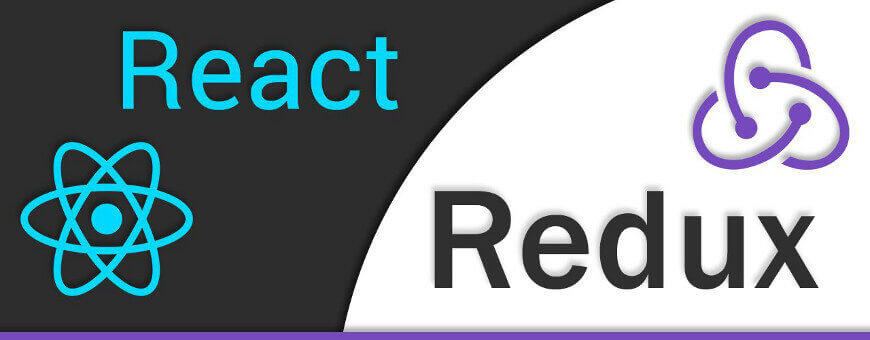
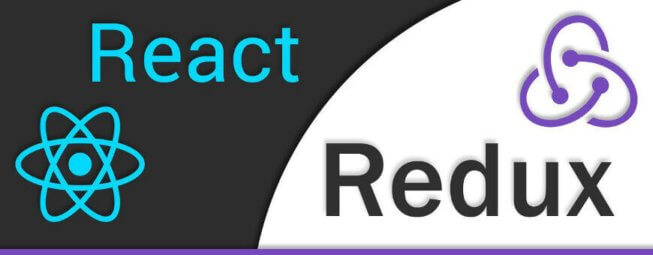
reducing images and separating paragraphs

diff --git a/_posts/2017-04-02-getting-started-react-redux.md b/_posts/2017-04-02-getting-started-react-redux.md
@@ -11,12 +11,14 @@ categories:
   - JavaScript
 tags: []
 author: Carlos Blé
-small_image: redux_small.png
+small_image: redux.svg
+written_in: english
 ---
 
 I started learning React and Redux about two months ago. Following the recommendation of 
 my colleagues Dani, Miguel & Ronny, I went to Pluralsight to study from the great training 
 courses carefully crafted by [Cory House](https://twitter.com/housecor). 
+
 We first watched the introduction to [React and Flux](https://app.pluralsight.com/library/courses/react-flux-building-applications/table-of-contents). 
 I did not practice with the exercises proposed, just watched the episodes at the 
 maximum speed I could. It's nice to be able to configure the player's speed to 1.7x or 2x. 
@@ -24,25 +26,26 @@ maximum speed I could. It's nice to be able to configure the player's speed to 1
 <img src="/assets/react-redux.jpg" alt="Redux" />
 
 Once I understood React and the Flux pattern I went to the next course on [React and Redux](https://app.pluralsight.com/library/courses/react-redux-react-router-es6/table-of-contents). 
+
 This time I downloaded the repository that Cory's got for this course, called 
 [Pluralsight-redux-starter](https://github.com/coryhouse/pluralsight-redux-starter) 
 and played with the examples along the way. I appreciated specially the episodes in 
 testing since I am a test infected developer and I feel the need for tests as soon as
 I get started with the development. 
-Cory has a terrific code repository called [React-Slingshot](https://github.com/coryhouse/react-slingshot) that served us to boot our first Redux project. 
- It's similar to the Pluralsight Starter but production ready, with an incredibly 
- powerful Webpack setup including all the tests harness, hot reloading, Babel...
- The repository includes cutting-edge libraries and works perfectly on Linux, Windows
- and Mac. Ready to work with ES6 which is the JavaScript flavour we've been using in
- the last two years. It saved us a lot of time, I am very grateful Cory!
- In the course there is an example where Cory tests a component through the Redux Provider. This one example has been very useful for us because we like to do 
- Outside-in TDD and testing from the Provider allows us to write integration tests that
-  cover the factory and _Redux's connect_ with our implementations of _mapStateToProps_ and
-  _mapStateToActions_.
-  In the following blog post I'll explain our Outside-in TDD strategy together with the
-  dependency injection which are building blocks that are not covered by the courses.
+
+Cory has a terrific code repository called [React-Slingshot](https://github.com/coryhouse/react-slingshot) that served us to boot our first Redux project. It's similar to the Pluralsight Starter but production ready, with an incredibly 
+powerful Webpack setup including all the tests harness, hot reloading, Babel...
+The repository includes cutting-edge libraries and works perfectly on Linux, Windows
+and Mac. Ready to work with ES6 which is the JavaScript flavour we've been using in
+the last two years. It saved us a lot of time, I am very grateful Cory!
+ 
+In the course there is an example where Cory tests a component through the Redux Provider. This one example has been very useful for us because we like to do Outside-in TDD and testing from the Provider allows us to write integration tests that
+cover the factory and _Redux's connect_ with our implementations of _mapStateToProps_ and _mapStateToActions_.
   
-  Stay tuned!
+In the following blog post I'll explain our Outside-in TDD strategy together with the
+dependency injection which are building blocks that are not covered by the courses.
+
+Stay tuned!
  
 By the way, at the time of this writing there is an offer by Microsoft. Registering 
 at [Visual Studio Dev Essentials](https://www.visualstudio.com/dev-essentials/) gives
